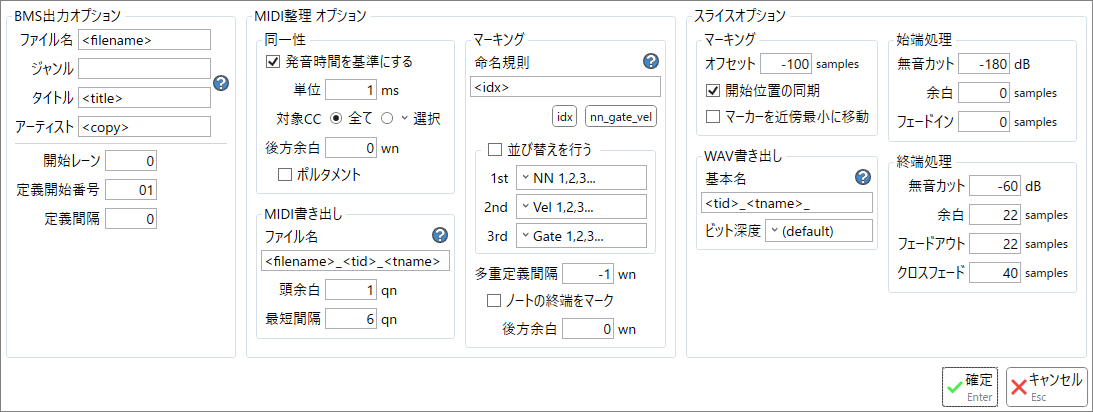
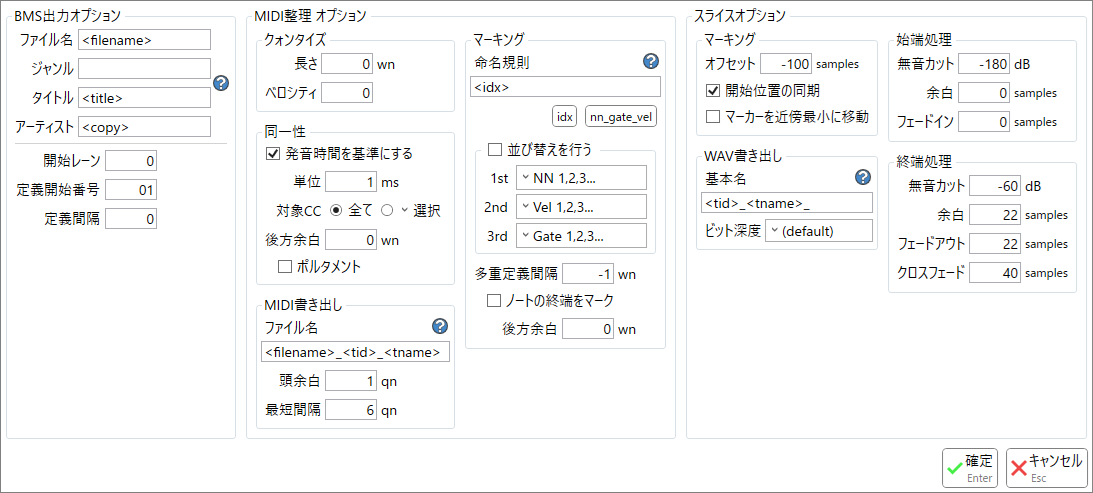
v0.7.18

diff --git a/docs/midi_defaultOptions.html b/docs/midi_defaultOptions.html
@@ -23,22 +23,23 @@
                 <h2>説明</h2>
                 要素をクリックすると説明が表示されます。
                 <div class="image-map" src="img/midi_defaultOptions.png" maps="
-                       2,  2,238,360, midi/bms_groupbox.html, center;
-                     242,  2,438,360, midi/pack_groupbox.html, center;
-                     682,  2,415,360, midi/slice_groupbox.html, center;
+                       1,  1,239,442, midi/bms_groupbox.html, center;
+                     241,  1,439,442, midi/pack_groupbox.html, center;
+                     681,  1,411,442, midi/slice_groupbox.html, center;
                       11, 25,204, 29, midi/bms_filename.html;
                       11, 54,204, 87, midi/bms_header.html;
                       11,146,150, 29, midi/bms_startLane.html;
                       11,175,150, 29, midi/bms_defStart.html;
                       11,204,150, 29, midi/bms_defInterval.html;
-                     261, 49,189, 25, midi/pack_tempo.html;
-                     261, 75,189, 29, midi/pack_msV.html;
-                     261,104,189, 29, midi/pack_targetCC.html;
-                     261,133,189, 29, midi/pack_afterMargin.html;
-                     261,162,189, 25, midi/pack_portamento.html;
-                     261,222,189, 52, midi/pack_filename.html;
-                     261,274,189, 29, midi/pack_headroom.html;
-                     261,303,189, 29, midi/pack_interval.html;
+                     251, 27,209, 92, midi/pack_quantize.html;
+                     261,141,189, 25, midi/pack_tempo.html;
+                     261,167,189, 29, midi/pack_msV.html;
+                     261,196,189, 29, midi/pack_targetCC.html;
+                     261,225,189, 29, midi/pack_afterMargin.html;
+                     261,254,189, 25, midi/pack_portamento.html;
+                     261,314,189, 52, midi/pack_filename.html;
+                     261,366,189, 29, midi/pack_headroom.html;
+                     261,395,189, 29, midi/pack_interval.html;
                      470, 49,191, 82, midi/pack_markerFormat.html;
                      471,137,189,121, midi/pack_order.html;
                      470,259,191, 29, midi/pack_multiDef.html;
@@ -48,8 +49,8 @@
                      701,216,172, 29, wave/bytes.html;
                      884, 28,197,118, wave/slice_leftProcess.html;
                      884,150,197,147, wave/slice_rightProcess.html;
-                     942,367, 56, 40, common/sub_decide.html;
-                    1006,367, 82, 40, common/sub_cancel.html;">
+                     942,448, 56, 40, common/sub_decide.html;
+                    1006,448, 82, 40, common/sub_cancel.html;">
                 </div>
                 <ul>
                     <li>

diff --git a/docs/history.html b/docs/history.html
@@ -10,6 +10,41 @@
         <div class="content">
             <ul>
                 <li>
+                    <details id="0_7_18">
+                        <summary class="a-like">Version 0.7.18 (2025/07/26)</summary>
+                        <ul>
+                            <li>
+                                仕様変更
+                                <ul>
+                                    <li>
+                                        <a href="midi_pack.html">Midiモード/MIDI整理</a>のオプションに「長さクォンタイズ」と「ベロシティクォンタイズ」を追加しました。
+                                        <ul>
+                                            <li>
+                                                以前のバージョンに存在した「長さの曖昧さ」「ベロシティの曖昧さ」と同様の処理です。
+                                            </li>
+                                            <li>
+                                                例えばベロシティの曖昧さを<span class="script">5</span>とした場合、元々<span class="script">vel = 96-100</span>だったノートがいずれも<span class="script">vel = 100</span>に矯正され、同じ音の強さであるとみなされるようになります。
+                                            </li>
+                                        </ul>
+                                    </li>
+                                </ul>
+                            </li>
+                            <li>
+                                不具合修正
+                                <ul>
+                                    <li>
+                                        ディスプレイの拡大率が100%でない場合にモーダルウィンドウ(<a href="bms_noteEdit.html">BMSモード/ノート編集</a>など)が想定より遠くに表示される不具合を修正しました。
+                                    </li>
+                                    <li>
+                                        <span class="script">8bit 1ch</span>の<span class="script">.wav</span>ファイルを開こうとするとエラーになることがある不具合を修正しました。
+                                    </li>
+                                </ul>
+                            </li>
+                        </ul>
+                        <br>
+                    </details>
+                </li>
+                <li>
                     <details id="0_7_17">
                         <summary class="a-like">Version 0.7.17 (2025/07/22)</summary>
                         <ul>

diff --git a/docs/midi_pack.html b/docs/midi_pack.html
@@ -20,21 +20,22 @@
                 <div class="image-map" src="img/midi_pack.png" maps="
                       5, 28,271, 27, midi/track_sideChain.html;
                     287, 28,130, 27, midi/pack_useDefault.html;
-                     11, 83,189, 25, midi/pack_tempo.html;
-                     11,109,189, 29, midi/pack_msV.html;
-                     11,138,189, 29, midi/pack_targetCC.html;
-                     11,167,189, 29, midi/pack_afterMargin.html;
-                     11,196,189, 25, midi/pack_portamento.html;
-                     11,256,189, 52, midi/pack_filename.html;
-                     11,308,189, 29, midi/pack_headroom.html;
-                     11,337,189, 29, midi/pack_interval.html;
+                      1, 59,209, 92, midi/pack_quantize.html;
+                     11,175,189, 25, midi/pack_tempo.html;
+                     11,201,189, 29, midi/pack_msV.html;
+                     11,230,189, 29, midi/pack_targetCC.html;
+                     11,259,189, 29, midi/pack_afterMargin.html;
+                     11,288,189, 25, midi/pack_portamento.html;
+                     11,348,189, 52, midi/pack_filename.html;
+                     11,400,189, 29, midi/pack_headroom.html;
+                     11,429,189, 29, midi/pack_interval.html;
                     220, 83,191, 82, midi/pack_markerFormat.html;
                     221,171,189,121, midi/pack_order.html;
                     220,293,191, 29, midi/pack_multiDef.html;
                     220,322,191, 55, midi/pack_cutTail.html;
-                     93,391, 90, 40, midi/pack_export.html;
-                    191,391,136, 40, midi/pack_and_next.html;
-                    335,391, 82, 40, common/sub_cancel.html;">
+                     93,472, 90, 40, midi/pack_export.html;
+                    191,472,136, 40, midi/pack_and_next.html;
+                    335,472, 82, 40, common/sub_cancel.html;">
                 </div>
             </div>
             <div class="stack" id="suffix">

diff --git a/docs/midi/pack_options.html b/docs/midi/pack_options.html
@@ -2,14 +2,15 @@
   <h2>MIDI整理オプション</h2>
   要素をクリックすると説明が表示されます。
   <div class="image-map" src="img/midi_pack_options.png" maps="
-       11, 25,189, 25, midi/pack_tempo.html;
-       11, 51,189, 29, midi/pack_msV.html;
-       11, 80,189, 29, midi/pack_targetCC.html;
-       11,109,189, 29, midi/pack_afterMargin.html;
-       11,138,189, 25, midi/pack_portamento.html;
-       11,198,189, 52, midi/pack_filename.html;
-       11,250,189, 29, midi/pack_headroom.html;
-       11,279,189, 29, midi/pack_interval.html;
+        1,  1,209, 92, midi/pack_quantize.html;
+       11,117,189, 25, midi/pack_tempo.html;
+       11,143,189, 29, midi/pack_msV.html;
+       11,172,189, 29, midi/pack_targetCC.html;
+       11,201,189, 29, midi/pack_afterMargin.html;
+       11,230,189, 25, midi/pack_portamento.html;
+       11,290,189, 52, midi/pack_filename.html;
+       11,342,189, 29, midi/pack_headroom.html;
+       11,371,189, 29, midi/pack_interval.html;
       220, 25,191, 82, midi/pack_markerFormat.html;
       221,113,189,121, midi/pack_order.html;
       220,235,191, 29, midi/pack_multiDef.html;

diff --git a/docs/midi/pack_quantize.html b/docs/midi/pack_quantize.html
@@ -1,0 +1,12 @@
+<h3>クォンタイズ</h3>
+<ul>
+    <li>
+        <span class="script">0</span>以外にした場合、同一性判定の前にクォンタイズを行います。
+    </li>
+    <li>
+        「エクスポート」するMIDIファイルにのみ影響を与え、元々のデータは変更されません。
+    </li>
+    <li>
+        クォンタイズの仕様は<a href="midi_bulkEdit.html#bulkEdit_quantize">一括編集</a>の説明を参照してください。
+    </li>
+</ul>

diff --git a/docs/index.html b/docs/index.html
@@ -11,7 +11,7 @@
             <div class="stack">
                 <a href="https://github.com/Kuroki-Narumi/BmsMaker3-Manual/releases" target="_blank">
                     <img src="img/logo.png" style="max-width: 100%;"/><br>
-                    Version 0.7.17<br>
+                    Version 0.7.18<br>
                 </a>
                 オールインワン型BMS制作補助ツール<br>
             </div>

diff --git a/docs/midi/bulkEdit_details.html b/docs/midi/bulkEdit_details.html
@@ -76,7 +76,7 @@
                 </li>
             </ul>
         </li>
-        <li>
+        <li id="bulkEdit_quantize">
             クォンタイズ
             <ul>
                 <li>
